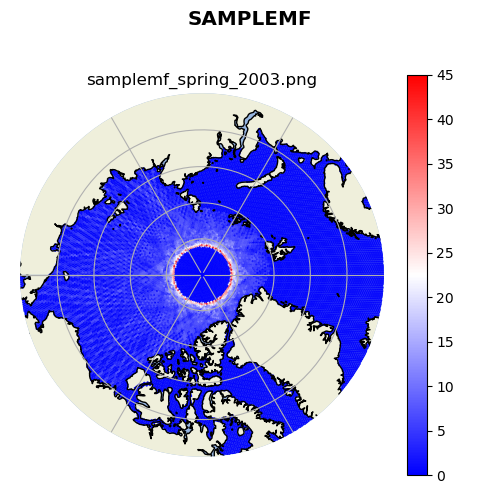
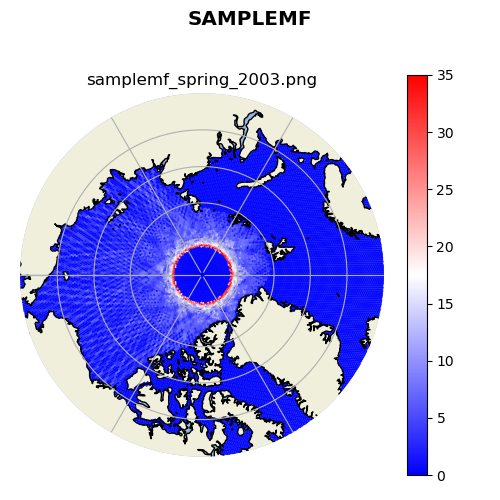
modelmf image

diff --git a/practice_plotting/config.py b/practice_plotting/config.py
@@ -47,8 +47,8 @@ DEFAULT_DOWNSAMPLE_FACTOR = 100
 VMIN = 0
 #VMAX = 1      # Good for Ice Area
 #VMAX = 0.7    # Good for Freeboard
-#VMAX = 150    # for ALL FILES - samplemf the max is 295, but there are not many tracks that go above 150 samples; 100 is too low
-VMAX = 45      # for spring 2003
+#VMAX = 150    # for ALL FILES - samplemf the max is 295, but there are not many cells that go above 150 samples; 100 is too low
+VMAX = 35      # for spring 2003 - there are not many cells that go above 45 samples;
 #VMAX = 15000  # for ALL FILES - sampleof the max is 46893, but there are not that many tracks that go about 15000 samples; 20000 looks ok 
 #VMAX = 5000    # for spring 2003
 #VMAX = 1.1 # for meanof
